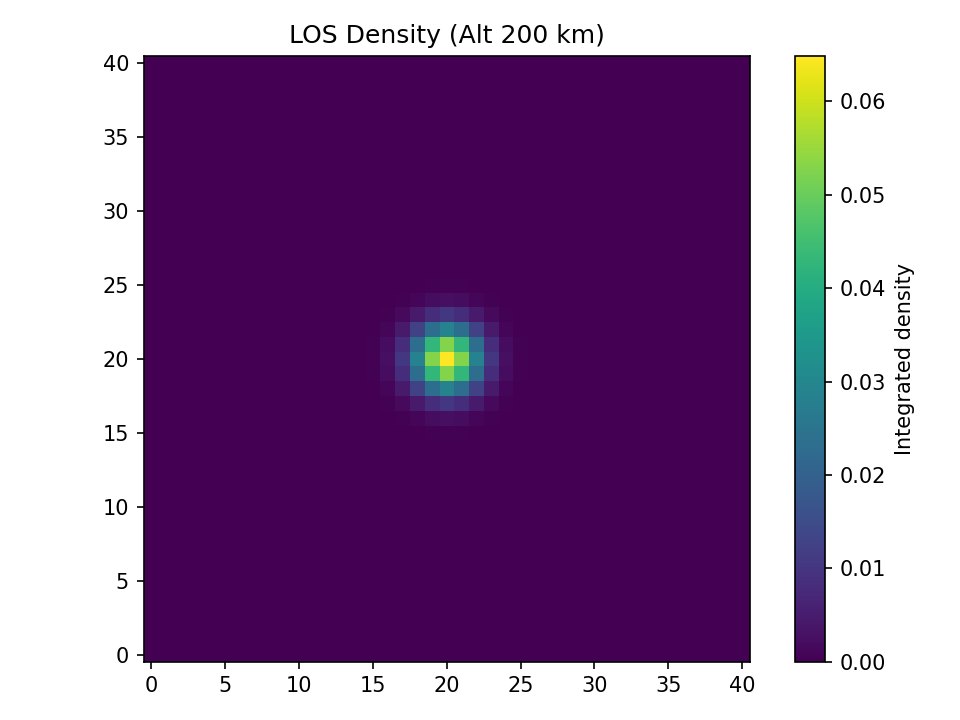
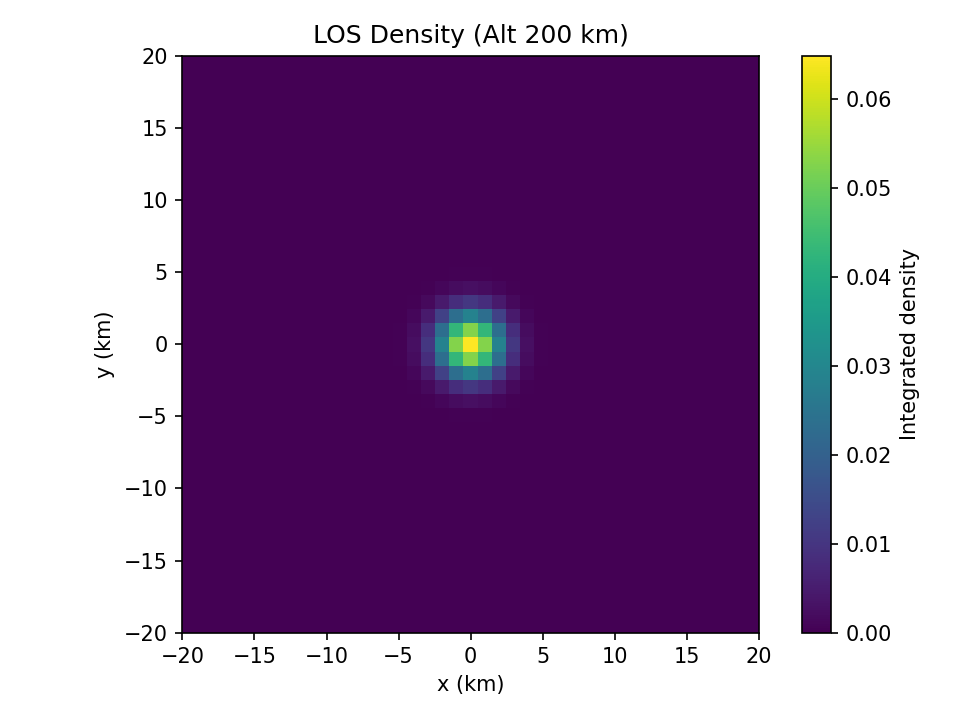
updated

Changed region(s): [[0.0938, 0.0611, 0.9688, 0.9778], [0.4062, 0.3972, 0.5625, 0.5806], [0.3125, 0.0306, 0.6562, 0.0611]]

diff --git a/main.py b/main.py
@@ -1,6 +1,7 @@
 from __future__ import annotations
 
 from pathlib import Path
+from typing import cast
 
 import numpy as np
 import matplotlib.pyplot as plt
@@ -52,7 +53,9 @@ def run_3d_demo(out_dir: Path) -> None:
     nx, ny, nz = 41, 41, 41
 
     D_xy_iso, D_z_iso = 0.2, 0.2
-    n_iso = simulate_3d(
+    n_iso = cast(
+        np.ndarray,
+        simulate_3d(
         nx=nx,
         ny=ny,
         nz=nz,
@@ -63,11 +66,14 @@ def run_3d_demo(out_dir: Path) -> None:
         dx=dx,
         sigma0=sigma0,
         initial="gaussian",
+        ),
     )
     image_iso = line_of_sight_integral(n_iso, axis=2, dx=dx)
 
     D_xy_aniso, D_z_aniso = 0.2, 0.05
-    n_aniso = simulate_3d(
+    n_aniso = cast(
+        np.ndarray,
+        simulate_3d(
         nx=nx,
         ny=ny,
         nz=nz,
@@ -78,6 +84,7 @@ def run_3d_demo(out_dir: Path) -> None:
         dx=dx,
         sigma0=sigma0,
         initial="gaussian",
+        ),
     )
     image_aniso = line_of_sight_integral(n_aniso, axis=2, dx=dx)
 
@@ -98,7 +105,7 @@ def run_3d_demo(out_dir: Path) -> None:
     vmin = min(image_iso.min(), image_aniso.min())
     vmax = max(image_iso.max(), image_aniso.max())
 
-    extent = [x.min(), x.max(), y.min(), y.max()]
+    extent = (float(x.min()), float(x.max()), float(y.min()), float(y.max()))
 
     plt.figure(figsize=(8, 4))
     plt.subplot(1, 2, 1)
@@ -138,6 +145,35 @@ def run_3d_demo(out_dir: Path) -> None:
     plt.savefig(out_dir / "diffusion_3d_los_analytic.png", dpi=150)
     plt.show()
 
+    # Mass conservation check with drift (outflow boundaries)
+    drift = (0.25, 0.0, 0.0)
+    _, times, masses = simulate_3d(
+        nx=nx,
+        ny=ny,
+        nz=nz,
+        D_xy=D_xy_iso,
+        D_z=D_z_iso,
+        t_end=t_end,
+        total_particles=total_particles,
+        dx=dx,
+        sigma0=sigma0,
+        initial="gaussian",
+        drift=drift,
+        track_mass=True,
+        mass_interval=1,
+    )
+    np.save(out_dir / "diffusion_3d_mass_time.npy", times)
+    np.save(out_dir / "diffusion_3d_mass.npy", masses)
+
+    plt.figure()
+    plt.plot(times, masses)
+    plt.xlabel("time")
+    plt.ylabel("total mass")
+    plt.title("Mass vs Time (Drift with Outflow)")
+    plt.tight_layout()
+    plt.savefig(out_dir / "diffusion_3d_mass.png", dpi=150)
+    plt.close()
+
 
 def run_parameter_study(out_dir: Path) -> None:
     total_particles = 1.0
@@ -145,6 +181,9 @@ def run_parameter_study(out_dir: Path) -> None:
     dx = 1.0
     sigma0 = 1.5
     nx, ny, nz = 41, 41, 41
+    x = (np.arange(nx) - nx // 2) * dx
+    y = (np.arange(ny) - ny // 2) * dx
+    extent = (float(x.min()), float(x.max()), float(y.min()), float(y.max()))
 
     # NOTE: Replace these placeholder values with measured/derived diffusion
     # coefficients for Ba at 150-250 km. Units should match the model (dx, t).
@@ -160,18 +199,21 @@ def run_parameter_study(out_dir: Path) -> None:
         D_z = case["D_z"]
         drift = case["drift"]
 
-        n = simulate_3d(
-            nx=nx,
-            ny=ny,
-            nz=nz,
-            D_xy=D_xy,
-            D_z=D_z,
-            t_end=t_end,
-            total_particles=total_particles,
-            dx=dx,
-            sigma0=sigma0,
-            initial="gaussian",
-            drift=drift,
+        n = cast(
+            np.ndarray,
+            simulate_3d(
+                nx=nx,
+                ny=ny,
+                nz=nz,
+                D_xy=D_xy,
+                D_z=D_z,
+                t_end=t_end,
+                total_particles=total_particles,
+                dx=dx,
+                sigma0=sigma0,
+                initial="gaussian",
+                drift=drift,
+            ),
         )
         image = line_of_sight_integral(n, axis=2, dx=dx)
 

diff --git a/src/diffusion_3d.py b/src/diffusion_3d.py
@@ -75,6 +75,12 @@ def _fill_neumann_pad(n: np.ndarray, n_pad: np.ndarray) -> None:
     n_pad[-1, -1, -1] = n[-1, -1, -1]
 
 
+def _fill_zero_pad(n: np.ndarray, n_pad: np.ndarray) -> None:
+    """Fill padded array with zeros at the boundary (outflow/Dirichlet)."""
+    n_pad.fill(0.0)
+    n_pad[1:-1, 1:-1, 1:-1] = n
+
+
 def step_explicit_3d(
     n: np.ndarray,
     D_xy: float,
@@ -83,6 +89,7 @@ def step_explicit_3d(
     dt: float,
     drift: tuple[float, float, float] = (0.0, 0.0, 0.0),
     n_pad: np.ndarray | None = None,
+    adv_pad: np.ndarray | None = None,
 ) -> np.ndarray:
     """Single explicit Euler step with anisotropic diffusion and optional drift."""
     if n_pad is None:
@@ -97,9 +104,21 @@ def step_explicit_3d(
 
     vx, vy, vz = drift
     if vx != 0.0 or vy != 0.0 or vz != 0.0:
-        dn_dx = (n_pad[2:, 1:-1, 1:-1] - n_pad[:-2, 1:-1, 1:-1]) / (2 * dx)
-        dn_dy = (n_pad[1:-1, 2:, 1:-1] - n_pad[1:-1, :-2, 1:-1]) / (2 * dx)
-        dn_dz = (n_pad[1:-1, 1:-1, 2:] - n_pad[1:-1, 1:-1, :-2]) / (2 * dx)
+        if adv_pad is None:
+            adv_pad = np.empty_like(n_pad)
+        _fill_zero_pad(n, adv_pad)
+
+        left_x = adv_pad[0:-2, 1:-1, 1:-1]
+        right_x = adv_pad[2:, 1:-1, 1:-1]
+        left_y = adv_pad[1:-1, 0:-2, 1:-1]
+        right_y = adv_pad[1:-1, 2:, 1:-1]
+        left_z = adv_pad[1:-1, 1:-1, 0:-2]
+        right_z = adv_pad[1:-1, 1:-1, 2:]
+
+        dn_dx = (n - left_x) / dx if vx >= 0.0 else (right_x - n) / dx
+        dn_dy = (n - left_y) / dx if vy >= 0.0 else (right_y - n) / dx
+        dn_dz = (n - left_z) / dx if vz >= 0.0 else (right_z - n) / dx
+
         lap = lap - (vx * dn_dx + vy * dn_dy + vz * dn_dz)
 
     return n + dt * lap
@@ -118,8 +137,13 @@ def simulate_3d(
     sigma0: float = 1.5,
     drift: tuple[float, float, float] = (0.0, 0.0, 0.0),
     initial: str = "gaussian",
-) -> np.ndarray:
-    """Simulate 3D diffusion of a source until t_end."""
+    track_mass: bool = False,
+    mass_interval: int = 1,
+) -> np.ndarray | tuple[np.ndarray, np.ndarray, np.ndarray]:
+    """Simulate 3D diffusion of a source until t_end.
+
+    If track_mass is True, returns (n, times, masses).
+    """
     if dt is None:
         dt = stable_dt_3d(dx, D_xy, D_z)
 
@@ -132,14 +156,32 @@ def simulate_3d(
         raise ValueError("initial must be 'point' or 'gaussian'")
 
     n_pad = np.empty((nx + 2, ny + 2, nz + 2), dtype=float)
+    adv_pad = np.empty((nx + 2, ny + 2, nz + 2), dtype=float)
+
+    times: list[float] | None = None
+    masses: list[float] | None = None
+    if track_mass:
+        times = [0.0]
+        masses = [float(n.sum() * dx**3)]
 
     t = 0.0
+    step_index = 0
     while t < t_end:
         if t + dt > t_end:
             dt = t_end - t
-        n = step_explicit_3d(n, D_xy, D_z, dx, dt, drift=drift, n_pad=n_pad)
+        n = step_explicit_3d(n, D_xy, D_z, dx, dt, drift=drift, n_pad=n_pad, adv_pad=adv_pad)
         t += dt
+        step_index += 1
+        if track_mass and step_index % mass_interval == 0:
+            if times is None or masses is None:
+                raise RuntimeError("Mass tracking buffers not initialized")
+            times.append(t)
+            masses.append(float(n.sum() * dx**3))
 
+    if track_mass:
+        if times is None or masses is None:
+            raise RuntimeError("Mass tracking buffers not initialized")
+        return n, np.asarray(times), np.asarray(masses)
     return n
 
 

diff --git a/README.md b/README.md
@@ -4,7 +4,7 @@ This project simulates diffusion using an explicit finite-difference method. It 
 
 - 1D diffusion with a numerical solution compared against the analytical Gaussian solution.
 - 3D diffusion with Gaussian initialization, anisotropic diffusion ($D_{xy}$, $D_z$), and line-of-sight integration.
-- Optional drift support ($\mathbf{v} \cdot \nabla n$) in the 3D solver.
+- Optional drift support ($\mathbf{v} \cdot \nabla n$) in the 3D solver with outflow boundaries.
 - Parameter study hooks for 150–250 km diffusion coefficients.
 
 ## Requirements
@@ -43,6 +43,9 @@ Running the script saves figures and arrays under the outputs/ folder:
 - diffusion_3d_los_alt_150km.npy
 - diffusion_3d_los_alt_200km.npy
 - diffusion_3d_los_alt_250km.npy
+- diffusion_3d_mass.png
+- diffusion_3d_mass_time.npy
+- diffusion_3d_mass.npy
 
 ## Notes
 
